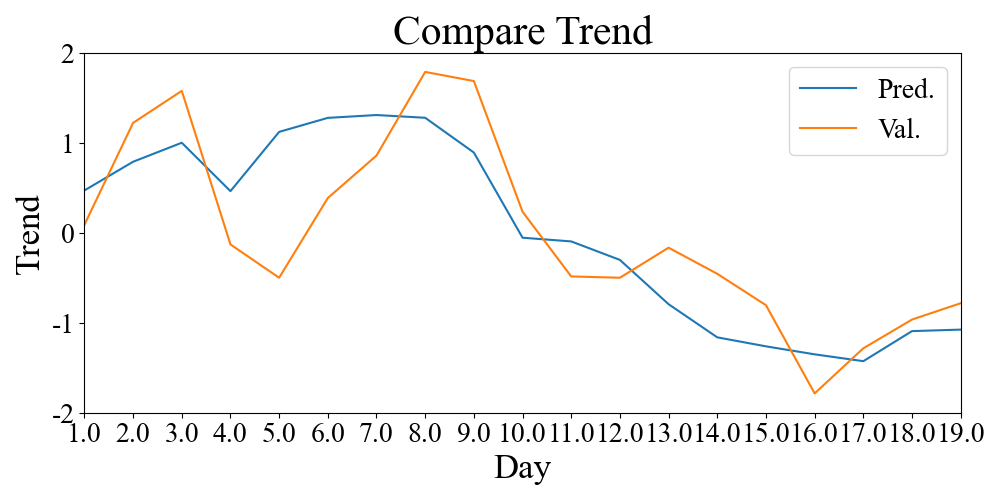
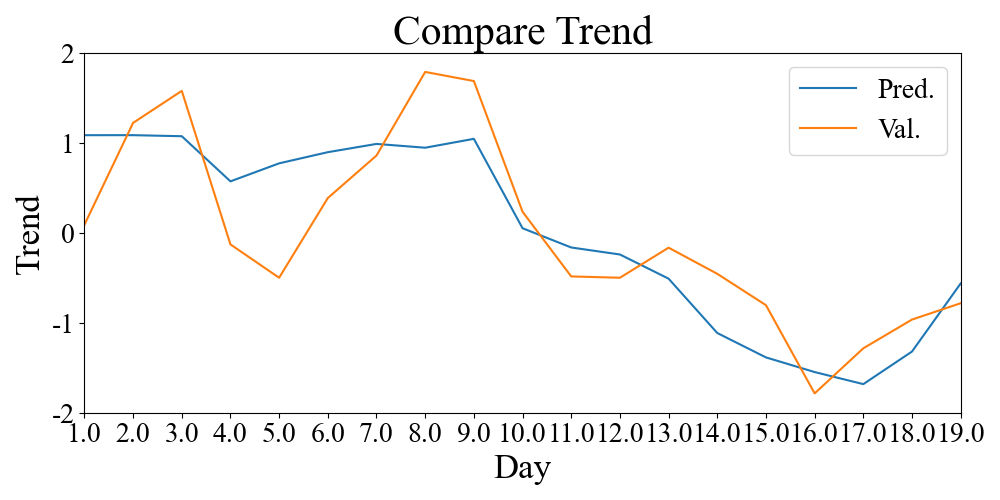
4/9.....

diff --git a/abner2/main.py b/abner2/main.py
@@ -106,7 +106,12 @@ LOSS = np.array(LOSS)
 print('\n------Testing------')
 single_model.eval()
 with torch.no_grad():
+    out = Val[0,0]
+    hold = 0
+    act_tot = []
+    hold_tot = []
     for n_ts, (Data_ts, Label_ts) in enumerate (test_dataloader):
+        rec = out
 
         data = Data_ts
         data = data.to(device)
@@ -114,6 +119,10 @@ with torch.no_grad():
         out, _ = single_model(data)
         out = out.cpu().data.numpy()
 
+        trend = functions._comp(rec, out)
+        act, hold = functions._stock3(trend, hold)
+        act_tot.append(act)
+        hold_tot.append(hold)
         if n_ts==0:
             pred_tes = out
         else:
@@ -131,14 +140,12 @@ loss_tes = loss_f(pred_tes[:-1], val_tes)
 print(loss_tes)
 
 #%% Trend
-trend = functions._trend(pred_tes_ny)
-act, hold = functions._stock2(trend)
-Result = act
+Result = np.array(act_tot)[:-1]
 
 print('act')
-print(act)
+print(act_tot[:-1])
 print('\nhold')
-print(hold)
+print(hold_tot[:-1])
 
 #%% Save
 diction = {"Value": Result}

diff --git a/abner2/functions.py b/abner2/functions.py
@@ -162,4 +162,40 @@ def _stock2(trend):
         ACT.append(0)
         HOLD.append(hold)
 
-    return(np.array(ACT), np.array(HOLD))    
+    return(np.array(ACT), np.array(HOLD)) 
+
+def _comp(rec, out):
+    if rec>out:
+        trend = -1
+    elif rec<out:
+        trend = 1
+    else:
+        trend = 0
+    return trend
+
+def _stock3(trend, hold):
+    if trend==1:
+        # up
+        if hold==0:
+            act = -1
+            hold = -1
+        elif hold==1:
+            act = -1
+            hold = 0
+        elif hold==-1:
+            act = 0
+            hold = -1
+    elif trend==-1:
+        # down
+        if hold==0:
+            act = 1
+            hold = 1
+        elif hold==1:
+            act = 0
+            hold = 1
+        elif hold==-1:
+            act = 1
+            hold = 0
+    else:
+        act = 0
+    return act, hold
